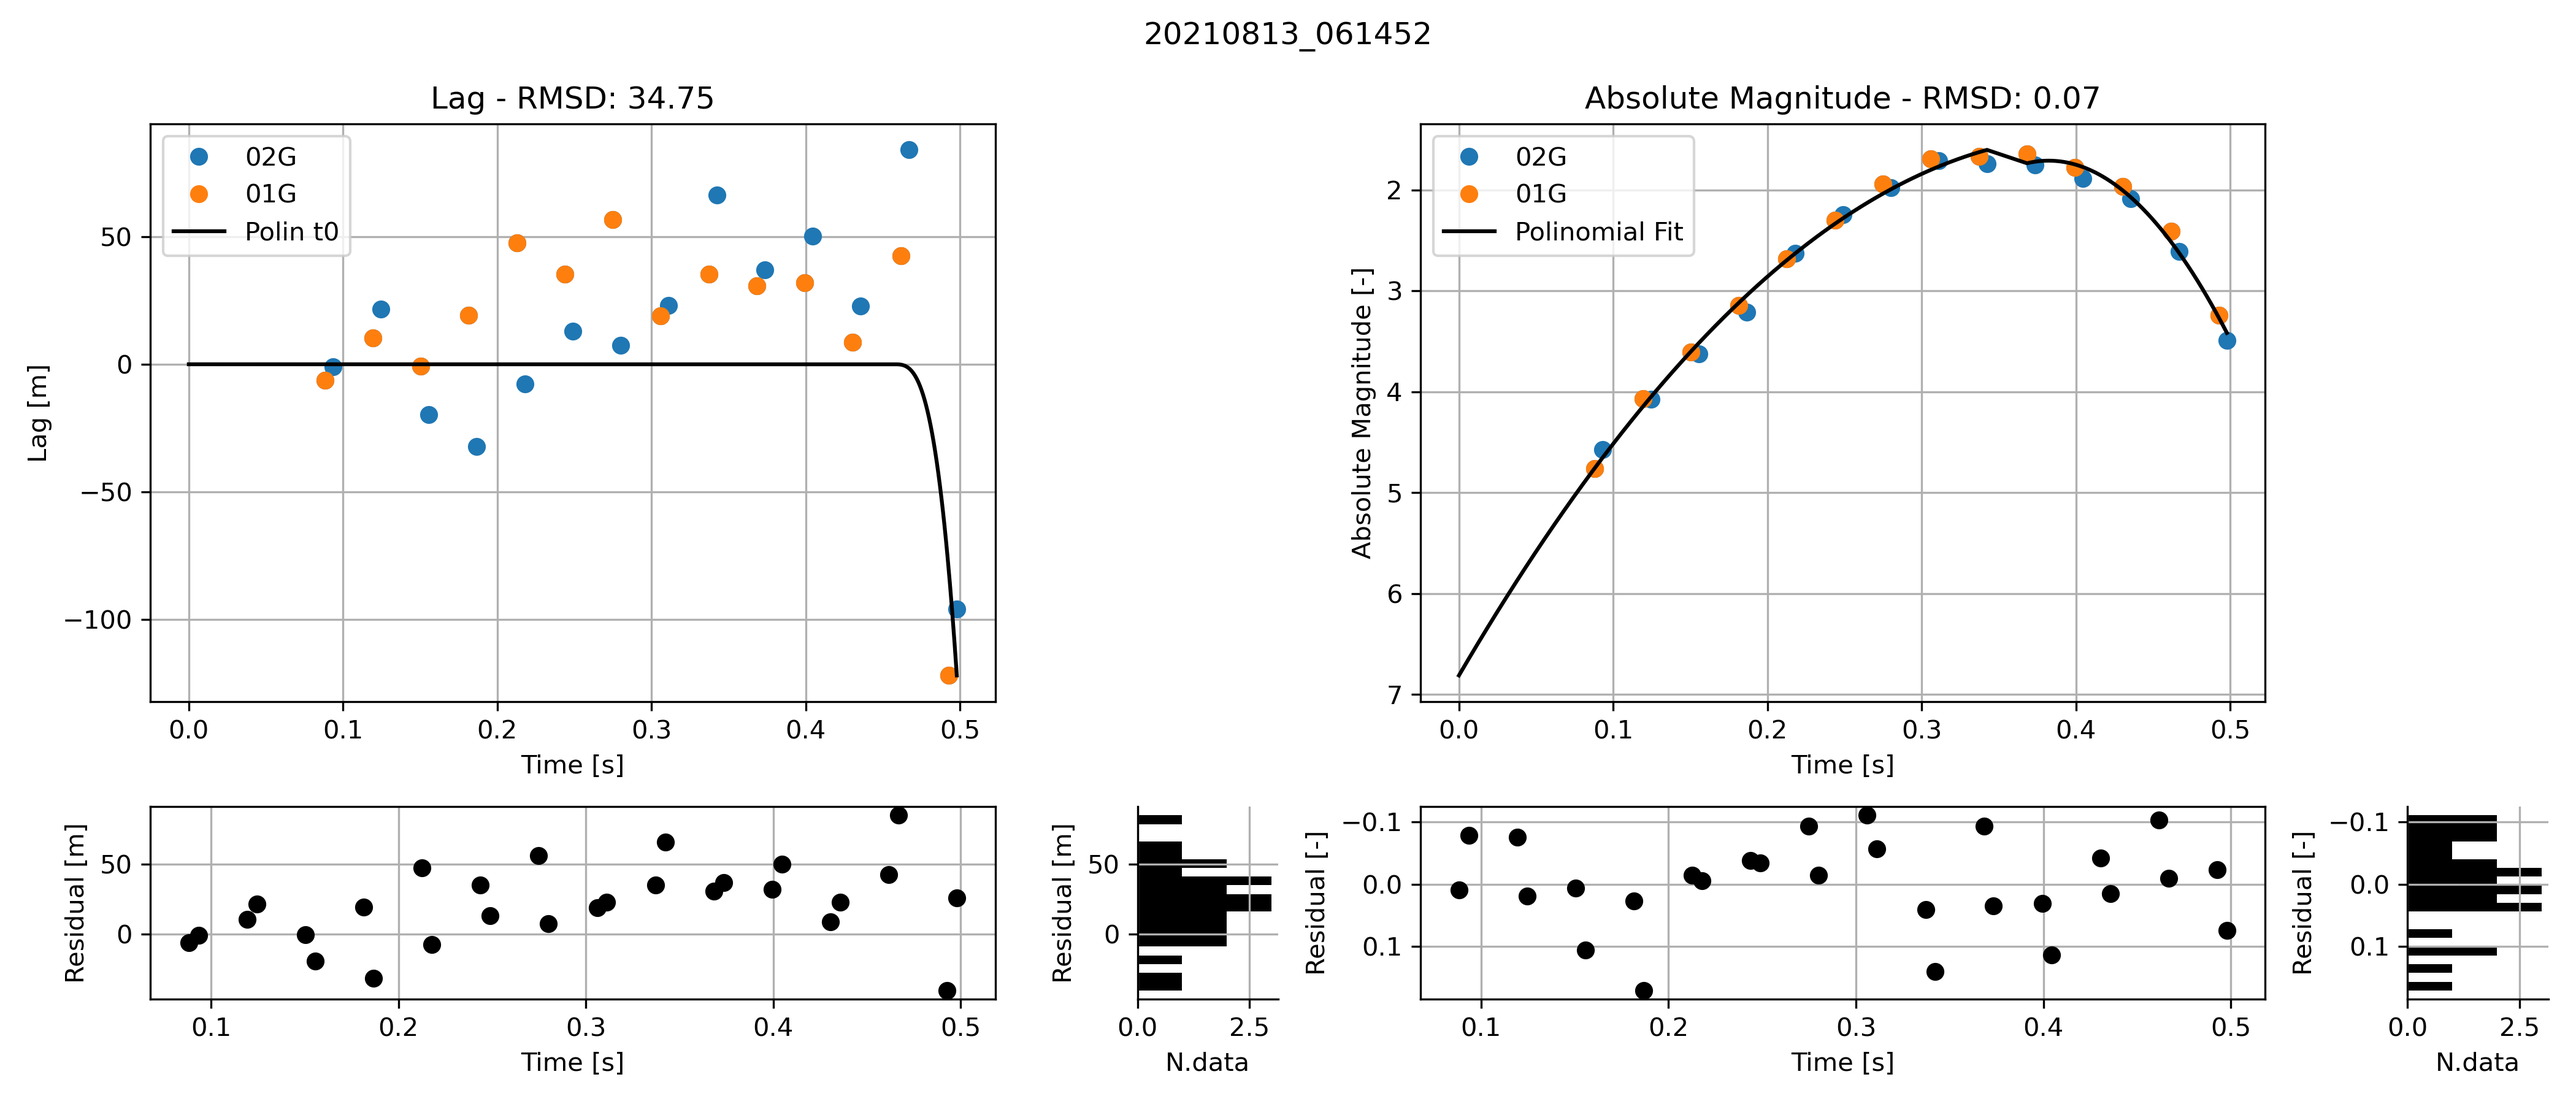
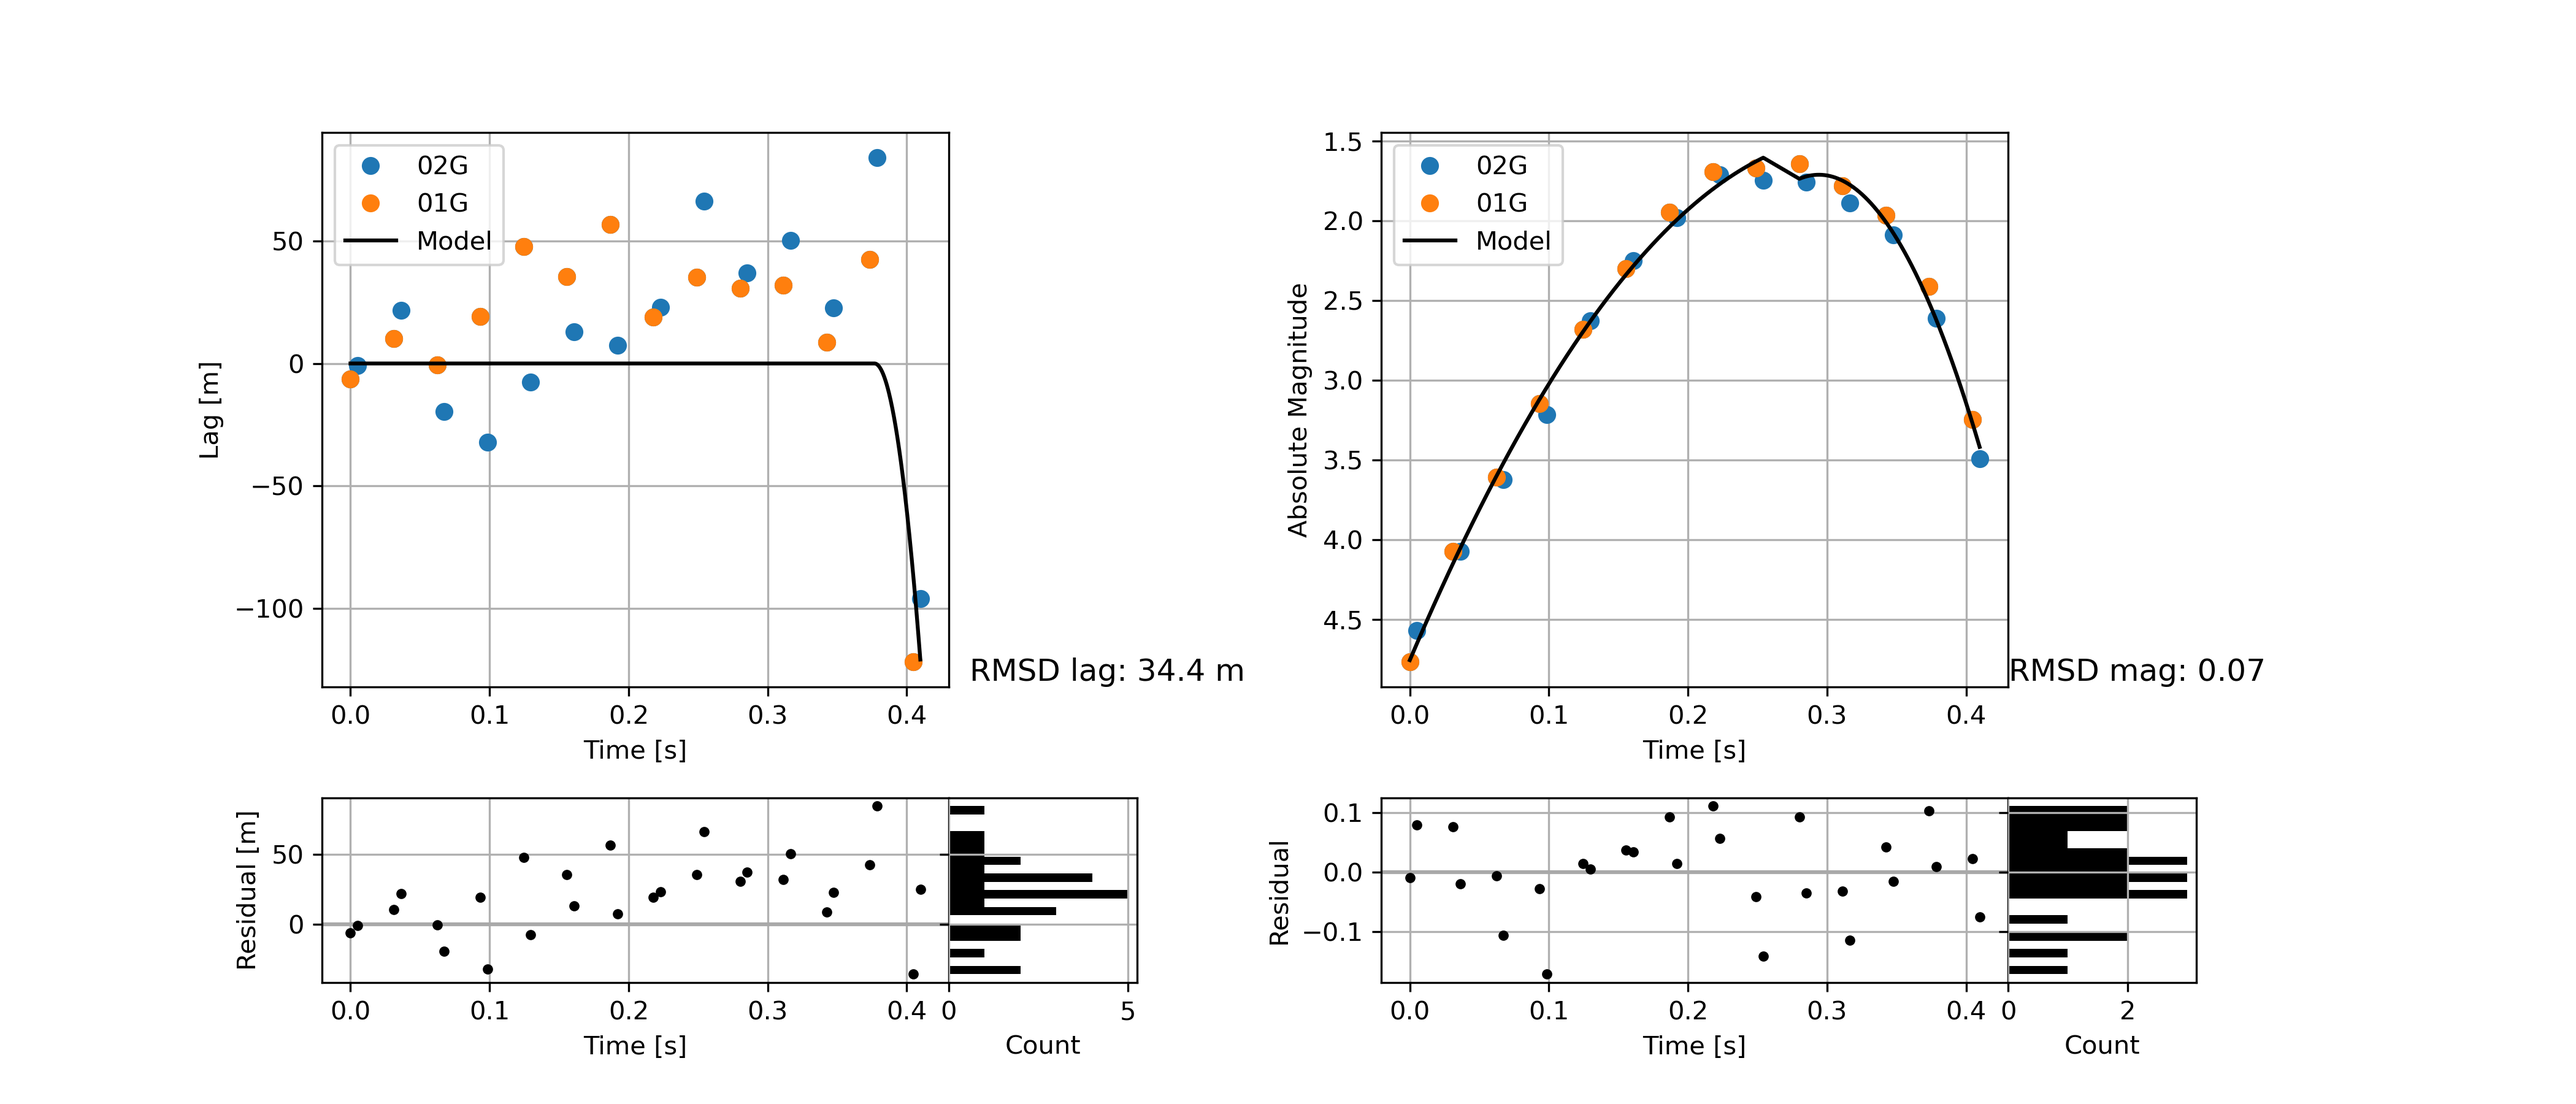
new plot colors

diff --git a/Code/PCA/manual_reduce/Plots_stdv.py b/Code/PCA/manual_reduce/Plots_stdv.py
@@ -10,6 +10,7 @@ import numpy as np
 import numpy as np
 import scipy.optimize as opt
 from sklearn.ensemble import GradientBoostingRegressor
+import matplotlib.gridspec as gridspec
 
 def read_and_process_pickle(file_path):
     with open(file_path, 'rb') as f:
@@ -41,6 +42,14 @@ def read_and_process_pickle(file_path):
     # print the station_id
     # print('station_id:', obs_data[0]['station_id'], obs_data[1]['station_id'])
 
+    # check if any time [0] is 0 if there is no value in the time_data == 0 then find the smallest value and subtract it from all the time_data
+    if obs_data[0]['time_data'][0] != 0 and obs_data[1]['time_data'][0] != 0:
+        # find the smallest time_data
+        min_time = min([obs_data[0]['time_data'][0], obs_data[1]['time_data'][0]])
+        # subtract the smallest time from all the time_data
+        for obs in obs_data:
+            obs['time_data'] = obs['time_data'] - min_time
+
     # Save distinct values for the two observations
     obs1, obs2 = obs_data[0], obs_data[1]
     
@@ -52,6 +61,8 @@ def read_and_process_pickle(file_path):
     sorted_indices = np.argsort(obs1['time_data'])
     for key in ['time_data', 'velocities', 'model_ht', 'absolute_magnitudes', 'lag', 'length']:
         obs1[key] = obs1[key][sorted_indices]
+
+
 
     return obs1, obs2
 
@@ -138,7 +149,7 @@ def fit_spline(data, time_data,spli=''):
     # concatenate fit1 and fit2
     fit1=np.concatenate((fit1, fit2))
 
-    residuals_pol = data - fit1
+    residuals_pol = fit1 - data
     # avg_residual_pol = np.mean(abs(residuals_pol))
     rmsd_pol = np.sqrt(np.mean(residuals_pol**2))
 
@@ -252,7 +263,7 @@ def fit_interp_spline(data, time_data, k=3):
     rmsd = np.sqrt(np.mean(residuals**2))
     return spline_fit, residuals, rmsd
 
-def plot_side_by_side(obs1, obs2,file,num):
+def plot_side_by_side_old(obs1, obs2,file,num):
     # Plot the simulation results
     fig, ax = plt.subplots(2, 4, figsize=(14, 6),gridspec_kw={'height_ratios': [ 3, 1],'width_ratios': [ 3, 0.5, 3, 0.5]}, dpi=300) #  figsize=(10, 5), dpi=300 0.5, 3, 3, 0.5
 
@@ -262,7 +273,7 @@ def plot_side_by_side(obs1, obs2,file,num):
     ax[0].plot(obs1['time_data'], obs1['lag'], 'o', label=f'{obs1["station_id"]}')
     ax[0].plot(obs2['time_data'], obs2['lag'], 'o', label=f'{obs2["station_id"]}')
     fitted_lag, residuals_lag, avg_residual_lag, time_data, labels = fit_lag(obs1['lag'],obs1['time_data'],spli=100000)
-    ax[0].plot(time_data, fitted_lag, 'k-', label=labels)
+    ax[0].plot(time_data, fitted_lag, 'k-', label='Model')
     # spline_fit, residuals, avg_residual_lag = fit_spline(obs1['lag'] / 1000 , obs1['time_data'])
     # plt.plot(obs1['time_data'], spline_fit*1000, 'k-', label='Spline Fit')
     # spline_fit, residuals_lag, avg_residual_lag = fit_cubic_spline(obs1['lag'] / 1000, obs1['time_data'])
@@ -271,7 +282,7 @@ def plot_side_by_side(obs1, obs2,file,num):
     # plt.plot(obs1['time_data'], spline_fit, 'g-', label='Interpolated Spline Fit')
     ax[0].set_xlabel('Time [s]')
     ax[0].set_ylabel('Lag [m]')
-    ax[0].title.set_text(f'Lag - RMSD: {avg_residual_lag:.2f}')
+    # ax[0].title.set_text(f'Lag - RMSD: {avg_residual_lag:.2f}')
     ax[0].legend()
     ax[0].grid()
 
@@ -281,23 +292,22 @@ def plot_side_by_side(obs1, obs2,file,num):
     ax[2].plot(obs1['time_data'], obs1['absolute_magnitudes'], 'o', label=f'{obs1["station_id"]}')
     ax[2].plot(obs2['time_data'], obs2['absolute_magnitudes'], 'o', label=f'{obs2["station_id"]}')
     spline_fit, residuals_mag, avg_residual,time_data,label_fit = fit_spline(obs1['absolute_magnitudes'], obs1['time_data'])
-    ax[2].plot(time_data, spline_fit, 'k-', label=label_fit)
+    ax[2].plot(time_data, spline_fit, 'k-', label='Model')
     ax[2].set_xlabel('Time [s]')
     ax[2].set_ylabel('Absolute Magnitude [-]')
     # flip the y-axis
     ax[2].invert_yaxis()
-    ax[2].title.set_text(f'Absolute Magnitude - RMSD: {avg_residual:.2f}')
+    # ax[2].title.set_text(f'Absolute Magnitude - RMSD: {avg_residual:.2f}')
     ax[2].legend()
     ax[2].grid()
     # delete the plot in the middle
     ax[3].axis('off')
     name= file.replace('_trajectory.pickle','')
     # put as the super title the name
-    plt.suptitle(name)
-
+    # plt.suptitle(name)
 
     # plot the residuals against time
-    ax[4].plot(obs1['time_data'], residuals_lag, 'ko', label=f'{obs1["station_id"]}')
+    ax[4].plot(obs1['time_data'], residuals_lag, 'k.', label=f'{obs1["station_id"]}')
     ax[4].set_xlabel('Time [s]')
     ax[4].set_ylabel('Residual [m]')
     # ax[2].title(f'Lag Residuals')
@@ -319,7 +329,7 @@ def plot_side_by_side(obs1, obs2,file,num):
     ax[5].grid()
 
     # plot the residuals against time
-    ax[6].plot(obs1['time_data'], residuals_mag, 'ko', label=f'{obs1["station_id"]}')
+    ax[6].plot(obs1['time_data'], residuals_mag, 'k.', label=f'{obs1["station_id"]}')
     ax[6].set_xlabel('Time [s]')
     ax[6].set_ylabel('Residual [-]')
     ax[6].invert_yaxis()
@@ -362,7 +372,137 @@ def plot_side_by_side(obs1, obs2,file,num):
     plt.close()
     return avg_residual_lag, avg_residual
 
-    
+
+def plot_side_by_side(obs1, obs2, file, num):
+    fig = plt.figure(figsize=(14,6), dpi=300)
+
+    # Use the user-specified GridSpec
+    gs_main = gridspec.GridSpec(2, 4, figure=fig,
+                                height_ratios=[3, 1],
+                                width_ratios=[1, 0.3, 1, 0.3])
+
+    # Adjust subplots: give some horizontal space (wspace) so there's separation between the pairs (5 & 6)
+    # We'll later manually remove space between (4,5) and (6,7) by adjusting positions.
+    fig.subplots_adjust(wspace=0.3, hspace=0.3)
+
+    # Top row
+    ax0 = fig.add_subplot(gs_main[0,0])  # Lag
+    ax1 = fig.add_subplot(gs_main[0,1])  # Empty
+    ax2 = fig.add_subplot(gs_main[0,2])  # Magnitude
+    ax3 = fig.add_subplot(gs_main[0,3])  # Empty
+
+    # Bottom row
+    # Residual lag and hist lag
+    ax4 = fig.add_subplot(gs_main[1,0])        # Lag residual
+    ax5 = fig.add_subplot(gs_main[1,1], sharey=ax4)  # Lag hist
+
+    # Residual mag and hist mag
+    ax6 = fig.add_subplot(gs_main[1,2])        # Mag residual
+    ax7 = fig.add_subplot(gs_main[1,3], sharey=ax6)  # Mag hist
+
+    # --- Plotting Data --- #
+    fitted_lag, residuals_lag, avg_residual_lag, time_data, labels = fit_lag(obs1['lag'], obs1['time_data'], spli=100000)
+    ax0.plot(obs1['time_data'], obs1['lag'], 'o', label=f'{obs1["station_id"]}')
+    ax0.plot(obs2['time_data'], obs2['lag'], 'o', label=f'{obs2["station_id"]}')
+    ax0.plot(time_data, fitted_lag, 'k-', label='Model')
+    ax0.set_xlabel('Time [s]')
+    ax0.set_ylabel('Lag [m]')
+    ax0.legend()
+    ax0.grid(True)
+
+    # Empty plot top row
+    ax1.axis('off')
+
+    # Magnitude fit
+    spline_fit, residuals_mag, avg_residual, time_data, label_fit = fit_spline(obs1['absolute_magnitudes'], obs1['time_data'])
+    ax2.plot(obs1['time_data'], obs1['absolute_magnitudes'], 'o', label=f'{obs1["station_id"]}')
+    ax2.plot(obs2['time_data'], obs2['absolute_magnitudes'], 'o', label=f'{obs2["station_id"]}')
+    ax2.plot(time_data, spline_fit, 'k-', label='Model')
+    ax2.set_xlabel('Time [s]')
+    ax2.set_ylabel('Absolute Magnitude')
+    ax2.invert_yaxis()
+    ax2.legend()
+    ax2.grid(True)
+
+    # After all plotting is done
+    pos0 = ax0.get_position()  # returns a Bbox
+    pos2 = ax2.get_position()
+
+    # Place text near lower right corner of the first plot (ax0)
+    # For example, just to the right (0.01) of the ax0's right edge and aligned with its bottom (y0):
+    fig.text(pos0.x1 + 0.115, pos0.y0, f'RMSD lag: {avg_residual_lag:.1f} m',  ha='right', va='bottom', fontsize=12, color='black')
+
+    # Similarly for the second plot (ax2):
+    fig.text(pos2.x1 + 0.1, pos2.y0, f'RMSD mag: {avg_residual:.2f}',  ha='right', va='bottom', fontsize=12, color='black')
+
+    # Empty plot top row
+    ax3.axis('off')
+
+    # put the zer line in dark gray
+    ax4.axhline(0, color='darkgray', linewidth=1.5)
+    # Lag residual
+    ax4.plot(obs1['time_data'], residuals_lag, 'k.')
+    ax4.set_xlabel('Time [s]')
+    ax4.set_ylabel('Residual [m]')
+    ax4.grid(True)
+
+    # Lag histogram
+    ax5.hist(residuals_lag, bins=20, orientation='horizontal', color='k')
+    ax5.set_xlabel('Count')
+    ax5.set_ylabel('')  # no label
+    # We'll remove tick labels later with tick_params
+
+    ax5.spines['left'].set_visible(False)
+    ax5.grid(True)
+
+    # put the zer line in dark gray
+    ax6.axhline(0, color='darkgray', linewidth=1.5)
+    # Magnitude residual
+    ax6.plot(obs1['time_data'], residuals_mag, 'k.')
+    ax6.set_xlabel('Time [s]')
+    ax6.set_ylabel('Residual')
+    ax6.invert_yaxis()
+    ax6.grid(True)
+
+    # Magnitude histogram
+    ax7.hist(residuals_mag, bins=20, orientation='horizontal', color='k')
+    ax7.set_xlabel('Count')
+    ax7.set_ylabel('')
+    # Will remove tick labels later
+    ax7.spines['left'].set_visible(False)
+    ax7.grid(True)
+    ax7.invert_yaxis()
+
+    # --- Manually adjust positions to remove space between (4,5) and (6,7) --- #
+    pos4 = ax4.get_position()
+    pos5 = ax5.get_position()
+    ax5.set_position([pos4.x1, pos5.y0, pos5.width, pos5.height])  # no space between 4 & 5
+
+    pos6 = ax6.get_position()
+    pos7 = ax7.get_position()
+    ax7.set_position([pos6.x1, pos7.y0, pos7.width, pos7.height])  # no space between 6 & 7
+
+    # --- Adjust tick labels at the end ---
+    # For ax4 and ax6, we want y tick labels:
+    ax4.tick_params(labelleft=True)
+    ax6.tick_params(labelleft=True)
+
+    # For ax5 and ax7, no y tick labels:
+    ax5.tick_params(labelleft=False)
+    ax7.tick_params(labelleft=False)
+
+    # Output
+    output = r'C:\Users\maxiv\WMPG-repoMAX\Code\PCA\manual_reduce'
+    name = file.replace('_trajectory.pickle', '')
+    name_for_table = name.replace("_", "\\_")
+    print(f'${name_for_table}$ & {avg_residual_lag:.1f} & {avg_residual:.2f} \\\\')
+    print('\hline')
+
+    plt.savefig(os.path.join(output, file.replace('_trajectory.pickle', f'_n{num}_std_dev.png')))
+    plt.close()
+
+    return avg_residual_lag, avg_residual
+
 
 # Define the directory path
 directory = r'C:\Users\maxiv\Desktop\test_pickl'

diff --git a/Code/PCA/Faint_meteor_PhysUncert_RMSD.py b/Code/PCA/Faint_meteor_PhysUncert_RMSD.py
@@ -3059,7 +3059,7 @@ def PCASim(df_sim_shower, df_obs_shower, OUT_PUT_PATH, save_results_folder_PCA, 
         'vel_init_norot': r"$v_0$",
         'vel_avg_norot': r"$v_{avg}$",
         'v_init_180km': r"$v_{180km}$",
-        'duration': r"$t$",
+        'duration': r"$T$",
         'peak_mag_height': r"$h_{peak}$",
         'begin_height': r"$h_{beg}$",
         'end_height': r"$h_{end}$",
@@ -3069,19 +3069,19 @@ def PCASim(df_sim_shower, df_obs_shower, OUT_PUT_PATH, save_results_folder_PCA, 
         'F': r"$F$",
         'trail_len': r"$L$",
         't0': r"$t_0$",
-        'deceleration_lin': r"$dAcc_{lin}$",
-        'deceleration_parab': r"$dAcc_{par}$",
+        'deceleration_lin': r"$\bar{a}$",
+        'deceleration_parab': r"$a_{quad}(1~s)$",
         'decel_parab_t0': r"$\bar{a}_{poly}(1~s)$",
         'decel_t0': r"$\bar{a}_{poly}$",
         'decel_jacchia': r"$a_0 k$",
         'zenith_angle': r"$z_c$",
-        'avg_lag': r"$\bar{L}$",
+        'avg_lag': r"$$\bar{\\ell}$$",
         'kc': r"$k_c$",
         'Dynamic_pressure_peak_abs_mag': r"$Q_{peak}$",
-        'a_mag_init': r"$a_1$",
-        'b_mag_init': r"$b_1$",
-        'a_mag_end': r"$a_2$",
-        'b_mag_end': r"$b_2$"
+        'a_mag_init': r"$d_1$",
+        'b_mag_init': r"$s_1$",
+        'a_mag_end': r"$d_2$",
+        'b_mag_end': r"$s_2$"
     }
     # Convert the given array to LaTeX-style labels
     latex_labels = [variable_map.get(var, var) for var in variable_PCA]
@@ -3107,25 +3107,52 @@ def PCASim(df_sim_shower, df_obs_shower, OUT_PUT_PATH, save_results_folder_PCA, 
     # plt.show()
 
     ######### importance of each variable in the PCA space ####################################################################
+    
+    # Define variable categories by their original names
+    general_trajectory_vars = {
+        'duration', 'trail_len', 'zenith_angle', 'begin_height', 
+        'peak_mag_height', 'end_height', 'kc', 'Dynamic_pressure_peak_abs_mag'
+    }
 
-    # Calculate the absolute importance of each variable in the PCA space
+    dynamics_vars = {
+        'vel_init_norot', 'vel_avg_norot', 'avg_lag', 't0',
+        'decel_t0', 'decel_parab_t0', 'deceleration_lin', 'deceleration_parab', 'decel_jacchia'
+    }
+
+    light_curve_vars = {
+        'beg_abs_mag', 'peak_abs_mag', 'end_abs_mag', 'F',
+        'a_mag_init', 'b_mag_init', 'a_mag_end', 'b_mag_end'
+    }
+
+    # Calculate variable importance
     explained_variance = pca.explained_variance_ratio_
     variable_importance = np.sum(np.abs(rotated_loadings) * explained_variance[:rotated_loadings.shape[1]], axis=1)
-
     variable_importance_percent = variable_importance * 100
 
-    # Map variable names to LaTeX-style labels
+    # Map variable names to LaTeX labels
     variable_labels = [variable_map.get(var, var) for var in variable_PCA_no_info]
-    
-    # Combine labels and importance into a list and sort by importance
-    sorted_variables = sorted(zip(variable_importance_percent, variable_labels), reverse=True)
 
-    # Unzip the sorted variables into separate lists
-    sorted_importance, sorted_labels = zip(*sorted_variables)
+    # We also want to keep track of original variable names so we can color-code by category
+    sorted_data = sorted(zip(variable_importance_percent, variable_labels, variable_PCA_no_info), 
+                        key=lambda x: x[0], reverse=True)
+    sorted_importance, sorted_labels, sorted_original_names = zip(*sorted_data)
+
+    # Assign a color based on the category
+    colors = []
+    for var_name in sorted_original_names:
+        if var_name in general_trajectory_vars:
+            colors.append('red')
+        elif var_name in dynamics_vars:
+            colors.append('green')
+        elif var_name in light_curve_vars:
+            colors.append('blue')
+        else:
+            # If not categorized, just use a default color
+            colors.append('gray')
 
     # Plot the sorted variable importance as a bar plot
     plt.figure(figsize=(12, 6))
-    bars = plt.bar(sorted_labels, sorted_importance, color='blue', alpha=0.7)
+    bars = plt.bar(sorted_labels, sorted_importance, color=colors, alpha=0.7)
 
     # Add percentage value on top of each bar
     for bar, importance in zip(bars, sorted_importance):
@@ -3142,13 +3169,12 @@ def PCASim(df_sim_shower, df_obs_shower, OUT_PUT_PATH, save_results_folder_PCA, 
     plt.xticks(rotation=90)
     plt.ylabel("Variable Contribution (%)")
     plt.xlabel("Variables")
-    # plt.title("Variable Importance in PCA Space (Sorted, Absolute Values)")
     plt.tight_layout()
 
     # Save the figure
     plt.savefig(save_results_folder_PCA + os.sep + file_name_obs + '_PCA_sorted_variable_importance_percent.png')
     plt.close()
-
+    
     ### Denis Plot ####################################################################################################
 
     # Assuming cov_data is your loadings matrix with shape (n_variables, n_PCs)
@@ -3680,7 +3706,7 @@ def process_pca_variables(variable_PCA, No_var_PCA, df_obs_shower, df_sim_shower
             'vel_init_norot': r"$v_0$",
             'vel_avg_norot': r"$v_{avg}$",
             'v_init_180km': r"$v_{180km}$",
-            'duration': r"$t$",
+            'duration': r"$T$",
             'peak_mag_height': r"$h_{peak}$",
             'begin_height': r"$h_{beg}$",
             'end_height': r"$h_{end}$",
@@ -3690,19 +3716,19 @@ def process_pca_variables(variable_PCA, No_var_PCA, df_obs_shower, df_sim_shower
             'F': r"$F$",
             'trail_len': r"$L$",
             't0': r"$t_0$",
-            'deceleration_lin': r"$dAcc_{lin}$",
-            'deceleration_parab': r"$dAcc_{par}$",
+            'deceleration_lin': r"$\bar{a}$",
+            'deceleration_parab': r"$a_{quad}(1~s)$",
             'decel_parab_t0': r"$\bar{a}_{poly}(1~s)$",
             'decel_t0': r"$\bar{a}_{poly}$",
             'decel_jacchia': r"$a_0 k$",
             'zenith_angle': r"$z_c$",
-            'avg_lag': r"$\bar{L}$",
+            'avg_lag': r"$$\bar{\\ell}$$",
             'kc': r"$k_c$",
             'Dynamic_pressure_peak_abs_mag': r"$Q_{peak}$",
-            'a_mag_init': r"$a_1$",
-            'b_mag_init': r"$b_1$",
-            'a_mag_end': r"$a_2$",
-            'b_mag_end': r"$b_2$"
+            'a_mag_init': r"$d_1$",
+            'b_mag_init': r"$s_1$",
+            'a_mag_end': r"$d_2$",
+            'b_mag_end': r"$s_2$"
         }
         
         # Convert variable names to LaTeX-style labels
